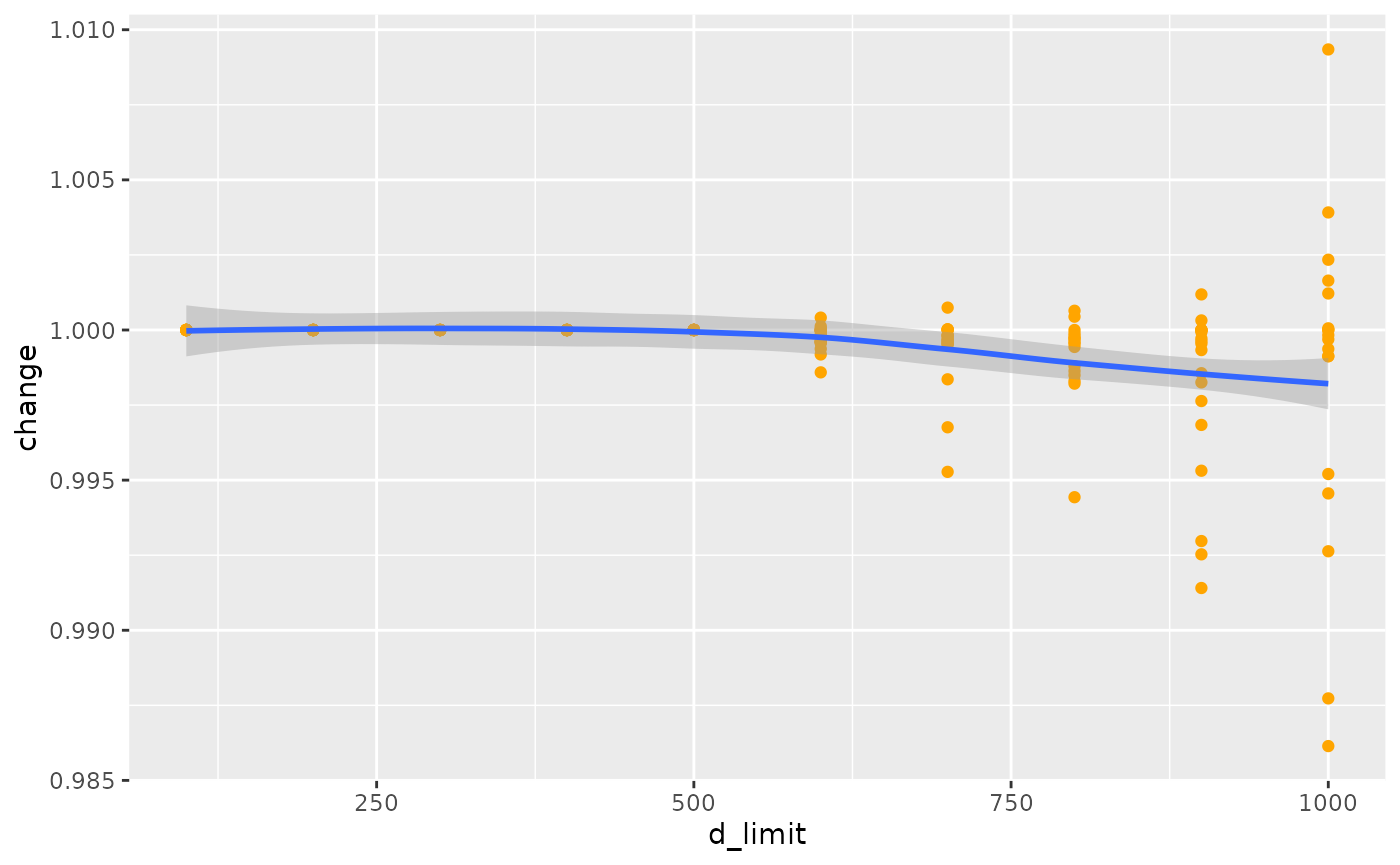
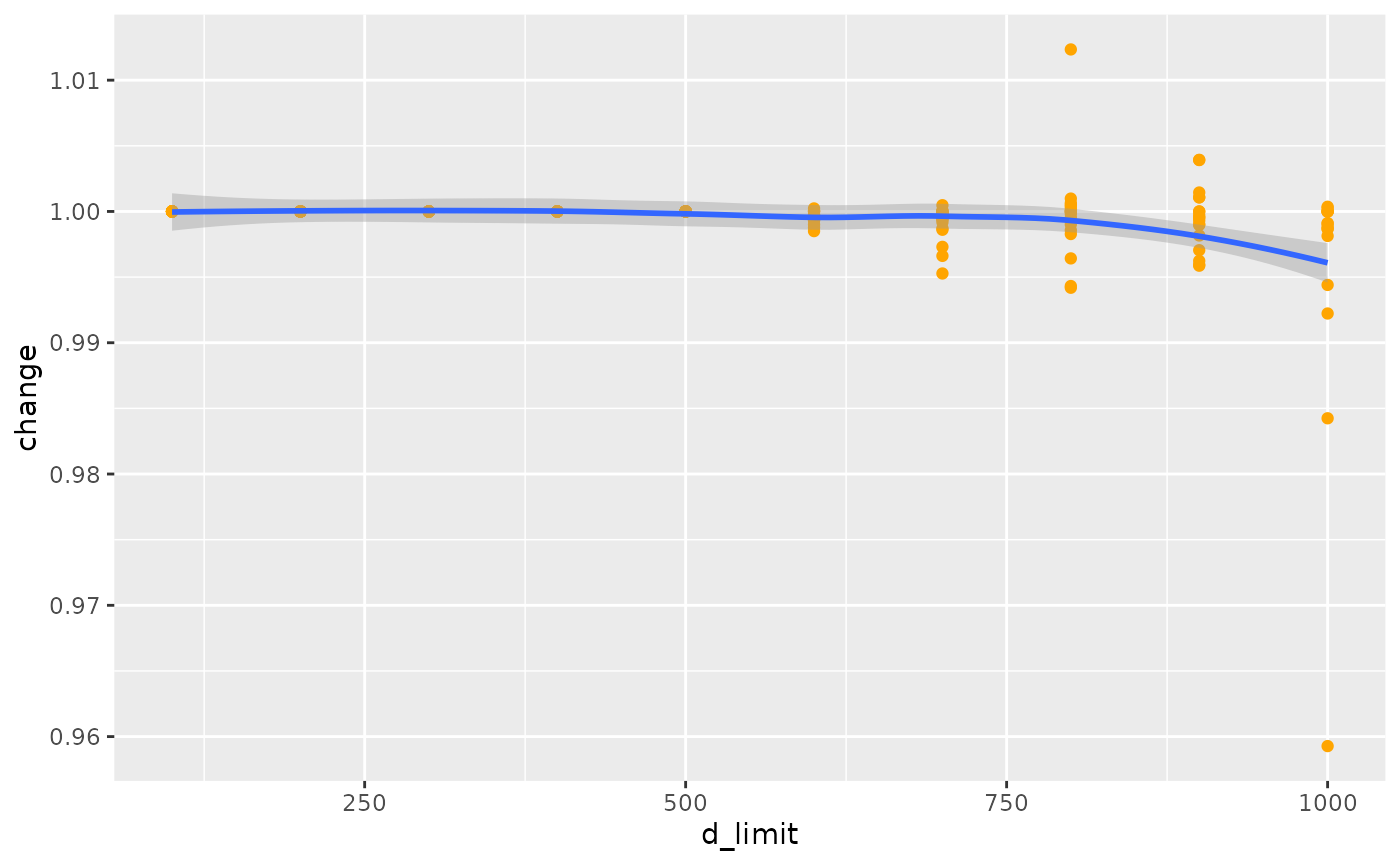
Deploying to gh-pages from @ ATFutures/gtfs-router@774cc5b1e51ce6610206c5a3b479762f5142debc 🚀

diff --git a/docs/articles/transfers.html b/docs/articles/transfers.html
@@ -33,7 +33,7 @@
       </button>
       <span class="navbar-brand">
         <a class="navbar-link" href="../index.html">gtfsrouter</a>
-        <span class="version label label-default" data-toggle="tooltip" data-placement="bottom" title="">0.0.5.052</span>
+        <span class="version label label-default" data-toggle="tooltip" data-placement="bottom" title="">0.0.5.053</span>
       </span>
     </div>
 
@@ -72,7 +72,7 @@
       <h1 data-toc-skip>Transfer Tables</h1>
                         <h4 data-toc-skip class="author">Mark Padgham</h4>
             
-            <h4 data-toc-skip class="date">2022-01-31</h4>
+            <h4 data-toc-skip class="date">2022-03-21</h4>
       
       <small class="dont-index">Source: <a href="https://github.com/ATFutures/gtfs-router/blob/HEAD/vignettes/transfers.Rmd" class="external-link"><code>vignettes/transfers.Rmd</code></a></small>
       <div class="hidden name"><code>transfers.Rmd</code></div>
@@ -447,7 +447,7 @@
     <span class="fu"><a href="https://ggplot2.tidyverse.org/reference/scale_continuous.html" class="external-link">scale_y_log10</a></span> <span class="op">(</span><span class="op">)</span> <span class="op">+</span>
     <span class="fu"><a href="https://ggplot2.tidyverse.org/reference/labs.html" class="external-link">xlab</a></span> <span class="op">(</span><span class="st">"time difference (minutes)"</span><span class="op">)</span></code></pre></div>
 <p><img src="transfers_files/figure-html/plot1-1.png" width="700"></p>
-<p>And these additional transfer possibilities can make a significant difference to estimated travel times. Note, however, that the travel times only changed for 702 stations, while the value of <code>nsame</code> value recording numbers of stations for which travel times did not change was 4,451. Travel times may also increase as additional transfers may be used to reduce numbers of connecting services required for a particular trip, and the algorithm generally searches for connections with minimal numbers of transfers.</p>
+<p>And these additional transfer possibilities can make a significant difference to estimated travel times. Note, however, that the travel times only changed for 777 stations, while the value of <code>nsame</code> value recording numbers of stations for which travel times did not change was 4,959. Travel times may also increase as additional transfers may be used to reduce numbers of connecting services required for a particular trip, and the algorithm generally searches for connections with minimal numbers of transfers.</p>
 <p>The following code the quantifies the overall effect of these reductions in travel times, measured as the linear reduction in comparison with travel times calculated using the original transfers table provided with the feed. The function also returns the proportion of all stations for which travel times were affected by the modified transfer table.</p>
 <div class="sourceCode" id="cb42"><pre class="downlit sourceCode r">
 <code class="sourceCode R"><span class="va">transfer_difference</span> <span class="op">&lt;-</span> <span class="kw">function</span> <span class="op">(</span><span class="va">gtfs</span>,
@@ -514,7 +514,7 @@
     <span class="fu"><a href="https://ggplot2.tidyverse.org/reference/geom_point.html" class="external-link">geom_point</a></span> <span class="op">(</span>pch <span class="op">=</span> <span class="fl">19</span>, col <span class="op">=</span> <span class="st">"orange"</span><span class="op">)</span> <span class="op">+</span>
     <span class="fu"><a href="https://ggplot2.tidyverse.org/reference/geom_smooth.html" class="external-link">geom_smooth</a></span> <span class="op">(</span>method <span class="op">=</span> <span class="st">"loess"</span>, formula <span class="op">=</span> <span class="st">"y ~ x"</span><span class="op">)</span></code></pre></div>
 <p><img src="transfers_files/figure-html/transfer_d_limit_results-1.png" width="700"></p>
-<p>That result shows that travel times do decrease with increasing limits of maximal transfer distance, although the overall effect is very minimal. The object <code>d</code> also records the proportion of station pairs for which modifications to the transfers table actually changed travel times, which in this case amounts to a mean value of 0.0103, clearly revealing that very few trips actually change.</p>
+<p>That result shows that travel times do decrease with increasing limits of maximal transfer distance, although the overall effect is very minimal. The object <code>d</code> also records the proportion of station pairs for which modifications to the transfers table actually changed travel times, which in this case amounts to a mean value of 0.0108, clearly revealing that very few trips actually change.</p>
 <div class="section level3">
 <h3 id="a-more-realistic-example">A more realistic example<a class="anchor" aria-label="anchor" href="#a-more-realistic-example"></a>
 </h3>

diff --git a/docs/articles/gtfsrouter.html b/docs/articles/gtfsrouter.html
@@ -33,7 +33,7 @@
       </button>
       <span class="navbar-brand">
         <a class="navbar-link" href="../index.html">gtfsrouter</a>
-        <span class="version label label-default" data-toggle="tooltip" data-placement="bottom" title="">0.0.5.052</span>
+        <span class="version label label-default" data-toggle="tooltip" data-placement="bottom" title="">0.0.5.053</span>
       </span>
     </div>
 
@@ -72,7 +72,7 @@
       <h1 data-toc-skip>gtfsrouter</h1>
                         <h4 data-toc-skip class="author">Mark Padgham</h4>
             
-            <h4 data-toc-skip class="date">2022-01-31</h4>
+            <h4 data-toc-skip class="date">2022-03-21</h4>
       
       <small class="dont-index">Source: <a href="https://github.com/ATFutures/gtfs-router/blob/HEAD/vignettes/gtfsrouter.Rmd" class="external-link"><code>vignettes/gtfsrouter.Rmd</code></a></small>
       <div class="hidden name"><code>gtfsrouter.Rmd</code></div>
@@ -95,7 +95,7 @@
 <p>The one thing neither of these packages enable is the use of GTFS data for transit routing. The <code>gtfsrouter</code> package enables both one-to-one and one-to-many routing. Functionality is demonstrated here through the sample data set included with the package, provided by the “Verkehrsverbund Berlin-Brandenburg” (VBB; or Transport Network Berlin-Brandenburg). The <code>berlin_gtfs</code> data represents a reduced version of the full GTFS data, containing only six tables, and a timetable reduced to the single hour between 12:00-13:00. Like all GTFS software including <a href="https://github.com/r-transit/tidytransit" class="external-link"><code>tidytransit</code></a>, this package is designed to work directly with GTFS data in <code>.zip</code>-archived format, and so includes a helper function, <code><a href="../reference/berlin_gtfs_to_zip.html">berlin_gtfs_to_zip()</a></code>, which exports the internal data set to a locally-stored <code>.zip</code> archive in the <code><a href="https://rdrr.io/r/base/tempfile.html" class="external-link">tempdir()</a></code> of the current <strong>R</strong> session. These data can be exported and re-imported with:</p>
 <div class="sourceCode" id="cb1"><pre class="downlit sourceCode r">
 <code class="sourceCode R"><span class="fu"><a href="../reference/berlin_gtfs_to_zip.html">berlin_gtfs_to_zip</a></span><span class="op">(</span><span class="op">)</span></code></pre></div>
-<pre><code><span class="co">## [1] "/tmp/Rtmpv3HAG7/vbb.zip"</span></code></pre>
+<pre><code><span class="co">## [1] "/tmp/RtmpLuq7in/vbb.zip"</span></code></pre>
 <div class="sourceCode" id="cb3"><pre class="downlit sourceCode r">
 <code class="sourceCode R"><span class="va">f</span> <span class="op">&lt;-</span> <span class="fu"><a href="https://rdrr.io/r/base/file.path.html" class="external-link">file.path</a></span> <span class="op">(</span><span class="fu"><a href="https://rdrr.io/r/base/tempfile.html" class="external-link">tempdir</a></span> <span class="op">(</span><span class="op">)</span>, <span class="st">"vbb.zip"</span><span class="op">)</span>
 <span class="fu"><a href="https://rdrr.io/r/base/files.html" class="external-link">file.exists</a></span> <span class="op">(</span><span class="va">f</span><span class="op">)</span></code></pre></div>
@@ -304,7 +304,7 @@
                          to <span class="op">=</span> <span class="va">to</span>,
                          start_time <span class="op">=</span> <span class="st">"12:00:00"</span><span class="op">)</span><span class="op">)</span></code></pre></div>
 <pre><code><span class="co">##    user  system elapsed </span>
-<span class="co">##   0.061   0.000   0.061</span></code></pre>
+<span class="co">##   0.059   0.000   0.059</span></code></pre>
 <p>Note that the <code>day</code> parameter is used to extract the timetable, after which it is no longer required in the actual call to <code><a href="../reference/gtfs_route.html">gtfs_route()</a></code>.</p>
 </div>
 <div class="section level3">

diff --git a/docs/articles/traveltimes.html b/docs/articles/traveltimes.html
@@ -33,7 +33,7 @@
       </button>
       <span class="navbar-brand">
         <a class="navbar-link" href="../index.html">gtfsrouter</a>
-        <span class="version label label-default" data-toggle="tooltip" data-placement="bottom" title="">0.0.5.052</span>
+        <span class="version label label-default" data-toggle="tooltip" data-placement="bottom" title="">0.0.5.053</span>
       </span>
     </div>
 
@@ -72,7 +72,7 @@
       <h1 data-toc-skip>Travel Times</h1>
                         <h4 data-toc-skip class="author">Mark Padgham &amp; Alexandra Kapp</h4>
             
-            <h4 data-toc-skip class="date">2022-01-31</h4>
+            <h4 data-toc-skip class="date">2022-03-21</h4>
       
       <small class="dont-index">Source: <a href="https://github.com/ATFutures/gtfs-router/blob/HEAD/vignettes/traveltimes.Rmd" class="external-link"><code>vignettes/traveltimes.Rmd</code></a></small>
       <div class="hidden name"><code>traveltimes.Rmd</code></div>
@@ -86,7 +86,7 @@
 <div class="sourceCode" id="cb1"><pre class="downlit sourceCode r">
 <code class="sourceCode R"><span class="kw"><a href="https://rdrr.io/r/base/library.html" class="external-link">library</a></span> <span class="op">(</span><span class="va"><a href="https://github.com/ATFutures/gtfs-router" class="external-link">gtfsrouter</a></span><span class="op">)</span>
 <span class="fu"><a href="../reference/berlin_gtfs_to_zip.html">berlin_gtfs_to_zip</a></span> <span class="op">(</span><span class="op">)</span></code></pre></div>
-<pre><code><span class="co">## [1] "/tmp/RtmpPX4aVb/vbb.zip"</span></code></pre>
+<pre><code><span class="co">## [1] "/tmp/Rtmpmqh5Cd/vbb.zip"</span></code></pre>
 <div class="sourceCode" id="cb3"><pre class="downlit sourceCode r">
 <code class="sourceCode R"><span class="va">f</span> <span class="op">&lt;-</span> <span class="fu"><a href="https://rdrr.io/r/base/file.path.html" class="external-link">file.path</a></span> <span class="op">(</span><span class="fu"><a href="https://rdrr.io/r/base/tempfile.html" class="external-link">tempdir</a></span> <span class="op">(</span><span class="op">)</span>, <span class="st">"vbb.zip"</span><span class="op">)</span>
 <span class="va">gtfs</span> <span class="op">&lt;-</span> <span class="fu"><a href="../reference/extract_gtfs.html">extract_gtfs</a></span> <span class="op">(</span><span class="va">f</span>, quiet <span class="op">=</span> <span class="cn">TRUE</span><span class="op">)</span>

diff --git a/docs/reference/gtfs_transfer_table.html b/docs/reference/gtfs_transfer_table.html
@@ -17,7 +17,7 @@
       </button>
       <span class="navbar-brand">
         <a class="navbar-link" href="../index.html">gtfsrouter</a>
-        <span class="version label label-default" data-toggle="tooltip" data-placement="bottom" title="">0.0.5.052</span>
+        <span class="version label label-default" data-toggle="tooltip" data-placement="bottom" title="">0.0.5.053</span>
       </span>
     </div>
 
@@ -99,7 +99,7 @@ throughout the underlying street network. If this is not provided as the
     <div id="ref-examples">
     <h2>Examples</h2>
     <div class="sourceCode"><pre class="sourceCode r"><code><span class="r-in"><span class="fu"><a href="berlin_gtfs_to_zip.html">berlin_gtfs_to_zip</a></span> <span class="op">(</span><span class="op">)</span></span>
-<span class="r-out co"><span class="r-pr">#&gt;</span> [1] "/tmp/RtmpReP9km/vbb.zip"</span>
+<span class="r-out co"><span class="r-pr">#&gt;</span> [1] "/tmp/Rtmp2I4WXk/vbb.zip"</span>
 <span class="r-in"><span class="va">f</span> <span class="op">&lt;-</span> <span class="fu"><a href="https://rdrr.io/r/base/file.path.html" class="external-link">file.path</a></span> <span class="op">(</span><span class="fu"><a href="https://rdrr.io/r/base/tempfile.html" class="external-link">tempdir</a></span> <span class="op">(</span><span class="op">)</span>, <span class="st">"vbb.zip"</span><span class="op">)</span></span>
 <span class="r-in"><span class="va">g</span> <span class="op">&lt;-</span> <span class="fu"><a href="extract_gtfs.html">extract_gtfs</a></span> <span class="op">(</span><span class="va">f</span>, quiet <span class="op">=</span> <span class="cn">TRUE</span><span class="op">)</span></span>
 <span class="r-in"><span class="va">g</span> <span class="op">&lt;-</span> <span class="fu">gtfs_transfer_table</span> <span class="op">(</span><span class="va">g</span>, d_limit <span class="op">=</span> <span class="fl">200</span><span class="op">)</span></span>

diff --git a/docs/reference/gtfs_route.html b/docs/reference/gtfs_route.html
@@ -18,7 +18,7 @@ a specified time."><!-- mathjax --><script src="https://cdnjs.cloudflare.com/aja
       </button>
       <span class="navbar-brand">
         <a class="navbar-link" href="../index.html">gtfsrouter</a>
-        <span class="version label label-default" data-toggle="tooltip" data-placement="bottom" title="">0.0.5.052</span>
+        <span class="version label label-default" data-toggle="tooltip" data-placement="bottom" title="">0.0.5.053</span>
       </span>
     </div>
 
@@ -158,7 +158,7 @@ can be calculated by setting <code>earliest_arrival = FALSE</code>.</p>
     <div id="ref-examples">
     <h2>Examples</h2>
     <div class="sourceCode"><pre class="sourceCode r"><code><span class="r-in"><span class="fu"><a href="berlin_gtfs_to_zip.html">berlin_gtfs_to_zip</a></span> <span class="op">(</span><span class="op">)</span> <span class="co"># Write sample feed from Berlin, Germany to tempdir</span></span>
-<span class="r-out co"><span class="r-pr">#&gt;</span> [1] "/tmp/RtmpReP9km/vbb.zip"</span>
+<span class="r-out co"><span class="r-pr">#&gt;</span> [1] "/tmp/Rtmp2I4WXk/vbb.zip"</span>
 <span class="r-in"><span class="va">f</span> <span class="op">&lt;-</span> <span class="fu"><a href="https://rdrr.io/r/base/file.path.html" class="external-link">file.path</a></span> <span class="op">(</span><span class="fu"><a href="https://rdrr.io/r/base/tempfile.html" class="external-link">tempdir</a></span> <span class="op">(</span><span class="op">)</span>, <span class="st">"vbb.zip"</span><span class="op">)</span> <span class="co"># name of feed</span></span>
 <span class="r-in"><span class="va">gtfs</span> <span class="op">&lt;-</span> <span class="fu"><a href="extract_gtfs.html">extract_gtfs</a></span> <span class="op">(</span><span class="va">f</span><span class="op">)</span></span>
 <span class="r-msg co"><span class="r-pr">#&gt;</span> ▶<span style="color: #00BB00;"> Unzipping GTFS archive</span></span>

diff --git a/docs/reference/berlin_gtfs.html b/docs/reference/berlin_gtfs.html
@@ -23,7 +23,7 @@ characters.'><!-- mathjax --><script src="https://cdnjs.cloudflare.com/ajax/libs
       </button>
       <span class="navbar-brand">
         <a class="navbar-link" href="../index.html">gtfsrouter</a>
-        <span class="version label label-default" data-toggle="tooltip" data-placement="bottom" title="">0.0.5.052</span>
+        <span class="version label label-default" data-toggle="tooltip" data-placement="bottom" title="">0.0.5.053</span>
       </span>
     </div>
 
@@ -94,7 +94,7 @@ for which no route is possible return <code>NULL</code>.</p>
     <div id="ref-examples">
     <h2>Examples</h2>
     <div class="sourceCode"><pre class="sourceCode r"><code><span class="r-in"><span class="fu"><a href="berlin_gtfs_to_zip.html">berlin_gtfs_to_zip</a></span> <span class="op">(</span><span class="op">)</span> <span class="co"># Write sample feed from Berlin, Germany to tempdir</span></span>
-<span class="r-out co"><span class="r-pr">#&gt;</span> [1] "/tmp/RtmpReP9km/vbb.zip"</span>
+<span class="r-out co"><span class="r-pr">#&gt;</span> [1] "/tmp/Rtmp2I4WXk/vbb.zip"</span>
 <span class="r-in"><span class="va">f</span> <span class="op">&lt;-</span> <span class="fu"><a href="https://rdrr.io/r/base/file.path.html" class="external-link">file.path</a></span> <span class="op">(</span><span class="fu"><a href="https://rdrr.io/r/base/tempfile.html" class="external-link">tempdir</a></span> <span class="op">(</span><span class="op">)</span>, <span class="st">"vbb.zip"</span><span class="op">)</span> <span class="co"># name of feed</span></span>
 <span class="r-in"><span class="va">gtfs</span> <span class="op">&lt;-</span> <span class="fu"><a href="extract_gtfs.html">extract_gtfs</a></span> <span class="op">(</span><span class="va">f</span><span class="op">)</span></span>
 <span class="r-msg co"><span class="r-pr">#&gt;</span> ▶<span style="color: #00BB00;"> Unzipping GTFS archive</span></span>

diff --git a/docs/reference/gtfs_timetable.html b/docs/reference/gtfs_timetable.html
@@ -17,7 +17,7 @@
       </button>
       <span class="navbar-brand">
         <a class="navbar-link" href="../index.html">gtfsrouter</a>
-        <span class="version label label-default" data-toggle="tooltip" data-placement="bottom" title="">0.0.5.052</span>
+        <span class="version label label-default" data-toggle="tooltip" data-placement="bottom" title="">0.0.5.053</span>
       </span>
     </div>
 
@@ -115,7 +115,7 @@ that case will generally take longer.</p>
     <div id="ref-examples">
     <h2>Examples</h2>
     <div class="sourceCode"><pre class="sourceCode r"><code><span class="r-in"><span class="fu"><a href="berlin_gtfs_to_zip.html">berlin_gtfs_to_zip</a></span> <span class="op">(</span><span class="op">)</span> <span class="co"># Write sample feed from Berlin, Germany to tempdir</span></span>
-<span class="r-out co"><span class="r-pr">#&gt;</span> [1] "/tmp/RtmpReP9km/vbb.zip"</span>
+<span class="r-out co"><span class="r-pr">#&gt;</span> [1] "/tmp/Rtmp2I4WXk/vbb.zip"</span>
 <span class="r-in"><span class="va">f</span> <span class="op">&lt;-</span> <span class="fu"><a href="https://rdrr.io/r/base/file.path.html" class="external-link">file.path</a></span> <span class="op">(</span><span class="fu"><a href="https://rdrr.io/r/base/tempfile.html" class="external-link">tempdir</a></span> <span class="op">(</span><span class="op">)</span>, <span class="st">"vbb.zip"</span><span class="op">)</span> <span class="co"># name of feed</span></span>
 <span class="r-in"><span class="va">gtfs</span> <span class="op">&lt;-</span> <span class="fu"><a href="extract_gtfs.html">extract_gtfs</a></span> <span class="op">(</span><span class="va">f</span><span class="op">)</span></span>
 <span class="r-msg co"><span class="r-pr">#&gt;</span> ▶<span style="color: #00BB00;"> Unzipping GTFS archive</span></span>

diff --git a/docs/reference/gtfs_traveltimes.html b/docs/reference/gtfs_traveltimes.html
@@ -18,7 +18,7 @@ other reachable station in a system."><!-- mathjax --><script src="https://cdnjs
       </button>
       <span class="navbar-brand">
         <a class="navbar-link" href="../index.html">gtfsrouter</a>
-        <span class="version label label-default" data-toggle="tooltip" data-placement="bottom" title="">0.0.5.052</span>
+        <span class="version label label-default" data-toggle="tooltip" data-placement="bottom" title="">0.0.5.053</span>
       </span>
     </div>
 
@@ -137,7 +137,7 @@ to reach all or most stations desired for a particular query, rather than set
     <div id="ref-examples">
     <h2>Examples</h2>
     <div class="sourceCode"><pre class="sourceCode r"><code><span class="r-in"><span class="fu"><a href="berlin_gtfs_to_zip.html">berlin_gtfs_to_zip</a></span> <span class="op">(</span><span class="op">)</span></span>
-<span class="r-out co"><span class="r-pr">#&gt;</span> [1] "/tmp/RtmpReP9km/vbb.zip"</span>
+<span class="r-out co"><span class="r-pr">#&gt;</span> [1] "/tmp/Rtmp2I4WXk/vbb.zip"</span>
 <span class="r-in"><span class="va">f</span> <span class="op">&lt;-</span> <span class="fu"><a href="https://rdrr.io/r/base/file.path.html" class="external-link">file.path</a></span> <span class="op">(</span><span class="fu"><a href="https://rdrr.io/r/base/tempfile.html" class="external-link">tempdir</a></span> <span class="op">(</span><span class="op">)</span>, <span class="st">"vbb.zip"</span><span class="op">)</span></span>
 <span class="r-in"><span class="va">g</span> <span class="op">&lt;-</span> <span class="fu"><a href="extract_gtfs.html">extract_gtfs</a></span> <span class="op">(</span><span class="va">f</span><span class="op">)</span></span>
 <span class="r-msg co"><span class="r-pr">#&gt;</span> ▶<span style="color: #00BB00;"> Unzipping GTFS archive</span></span>

diff --git a/docs/reference/gtfs_isochrone.html b/docs/reference/gtfs_isochrone.html
@@ -18,7 +18,7 @@ instead."><!-- mathjax --><script src="https://cdnjs.cloudflare.com/ajax/libs/ma
       </button>
       <span class="navbar-brand">
         <a class="navbar-link" href="../index.html">gtfsrouter</a>
-        <span class="version label label-default" data-toggle="tooltip" data-placement="bottom" title="">0.0.5.052</span>
+        <span class="version label label-default" data-toggle="tooltip" data-placement="bottom" title="">0.0.5.053</span>
       </span>
     </div>
 
@@ -150,7 +150,7 @@ of all stations reachable to the specified <code>end_time</code>.</p>
     <div id="ref-examples">
     <h2>Examples</h2>
     <div class="sourceCode"><pre class="sourceCode r"><code><span class="r-in"><span class="fu"><a href="berlin_gtfs_to_zip.html">berlin_gtfs_to_zip</a></span> <span class="op">(</span><span class="op">)</span></span>
-<span class="r-out co"><span class="r-pr">#&gt;</span> [1] "/tmp/RtmpReP9km/vbb.zip"</span>
+<span class="r-out co"><span class="r-pr">#&gt;</span> [1] "/tmp/Rtmp2I4WXk/vbb.zip"</span>
 <span class="r-in"><span class="va">f</span> <span class="op">&lt;-</span> <span class="fu"><a href="https://rdrr.io/r/base/file.path.html" class="external-link">file.path</a></span> <span class="op">(</span><span class="fu"><a href="https://rdrr.io/r/base/tempfile.html" class="external-link">tempdir</a></span> <span class="op">(</span><span class="op">)</span>, <span class="st">"vbb.zip"</span><span class="op">)</span></span>
 <span class="r-in"><span class="va">g</span> <span class="op">&lt;-</span> <span class="fu"><a href="extract_gtfs.html">extract_gtfs</a></span> <span class="op">(</span><span class="va">f</span><span class="op">)</span></span>
 <span class="r-msg co"><span class="r-pr">#&gt;</span> ▶<span style="color: #00BB00;"> Unzipping GTFS archive</span></span>

diff --git a/docs/reference/extract_gtfs.html b/docs/reference/extract_gtfs.html
@@ -17,7 +17,7 @@
       </button>
       <span class="navbar-brand">
         <a class="navbar-link" href="../index.html">gtfsrouter</a>
-        <span class="version label label-default" data-toggle="tooltip" data-placement="bottom" title="">0.0.5.052</span>
+        <span class="version label label-default" data-toggle="tooltip" data-placement="bottom" title="">0.0.5.053</span>
       </span>
     </div>
 
@@ -95,7 +95,7 @@ function to the two time columns of the "stop_times" table.</p>
     <div id="ref-examples">
     <h2>Examples</h2>
     <div class="sourceCode"><pre class="sourceCode r"><code><span class="r-in"><span class="fu"><a href="berlin_gtfs_to_zip.html">berlin_gtfs_to_zip</a></span> <span class="op">(</span><span class="op">)</span> <span class="co"># Write sample feed from Berlin, Germany to tempdir</span></span>
-<span class="r-out co"><span class="r-pr">#&gt;</span> [1] "/tmp/RtmpReP9km/vbb.zip"</span>
+<span class="r-out co"><span class="r-pr">#&gt;</span> [1] "/tmp/Rtmp2I4WXk/vbb.zip"</span>
 <span class="r-in"><span class="va">f</span> <span class="op">&lt;-</span> <span class="fu"><a href="https://rdrr.io/r/base/file.path.html" class="external-link">file.path</a></span> <span class="op">(</span><span class="fu"><a href="https://rdrr.io/r/base/tempfile.html" class="external-link">tempdir</a></span> <span class="op">(</span><span class="op">)</span>, <span class="st">"vbb.zip"</span><span class="op">)</span> <span class="co"># name of feed</span></span>
 <span class="r-in"><span class="va">gtfs</span> <span class="op">&lt;-</span> <span class="fu">extract_gtfs</span> <span class="op">(</span><span class="va">f</span><span class="op">)</span></span>
 <span class="r-msg co"><span class="r-pr">#&gt;</span> ▶<span style="color: #00BB00;"> Unzipping GTFS archive</span></span>

diff --git a/docs/reference/summary.gtfs.html b/docs/reference/summary.gtfs.html
@@ -17,7 +17,7 @@
       </button>
       <span class="navbar-brand">
         <a class="navbar-link" href="../index.html">gtfsrouter</a>
-        <span class="version label label-default" data-toggle="tooltip" data-placement="bottom" title="">0.0.5.052</span>
+        <span class="version label label-default" data-toggle="tooltip" data-placement="bottom" title="">0.0.5.053</span>
       </span>
     </div>
 
@@ -79,7 +79,7 @@
     <div id="ref-examples">
     <h2>Examples</h2>
     <div class="sourceCode"><pre class="sourceCode r"><code><span class="r-in"><span class="fu"><a href="berlin_gtfs_to_zip.html">berlin_gtfs_to_zip</a></span> <span class="op">(</span><span class="op">)</span></span>
-<span class="r-out co"><span class="r-pr">#&gt;</span> [1] "/tmp/RtmpReP9km/vbb.zip"</span>
+<span class="r-out co"><span class="r-pr">#&gt;</span> [1] "/tmp/Rtmp2I4WXk/vbb.zip"</span>
 <span class="r-in"><span class="va">f</span> <span class="op">&lt;-</span> <span class="fu"><a href="https://rdrr.io/r/base/file.path.html" class="external-link">file.path</a></span> <span class="op">(</span><span class="fu"><a href="https://rdrr.io/r/base/tempfile.html" class="external-link">tempdir</a></span> <span class="op">(</span><span class="op">)</span>, <span class="st">"vbb.zip"</span><span class="op">)</span></span>
 <span class="r-in"><span class="va">g</span> <span class="op">&lt;-</span> <span class="fu"><a href="extract_gtfs.html">extract_gtfs</a></span> <span class="op">(</span><span class="va">f</span><span class="op">)</span></span>
 <span class="r-msg co"><span class="r-pr">#&gt;</span> ▶<span style="color: #00BB00;"> Unzipping GTFS archive</span></span>

diff --git a/docs/authors.html b/docs/authors.html
@@ -17,7 +17,7 @@
       </button>
       <span class="navbar-brand">
         <a class="navbar-link" href="index.html">gtfsrouter</a>
-        <span class="version label label-default" data-toggle="tooltip" data-placement="bottom" title="">0.0.5.052</span>
+        <span class="version label label-default" data-toggle="tooltip" data-placement="bottom" title="">0.0.5.053</span>
       </span>
     </div>
 
@@ -74,13 +74,13 @@
 
     <p>Padgham M, Stepniak M (2022).
 <em>gtfsrouter: Routing with GTFS (General Transit Feed Specification) Data</em>.
-R package version 0.0.5.052, <a href="https://github.com/ATFutures/gtfs-router" class="external-link">https://github.com/ATFutures/gtfs-router</a>. 
+R package version 0.0.5.053, <a href="https://github.com/ATFutures/gtfs-router" class="external-link">https://github.com/ATFutures/gtfs-router</a>. 
 </p>
     <pre>@Manual{,
   title = {gtfsrouter: Routing with GTFS (General Transit Feed Specification) Data},
   author = {Mark Padgham and Marcin Stepniak},
   year = {2022},
-  note = {R package version 0.0.5.052},
+  note = {R package version 0.0.5.053},
   url = {https://github.com/ATFutures/gtfs-router},
 }</pre>
 
